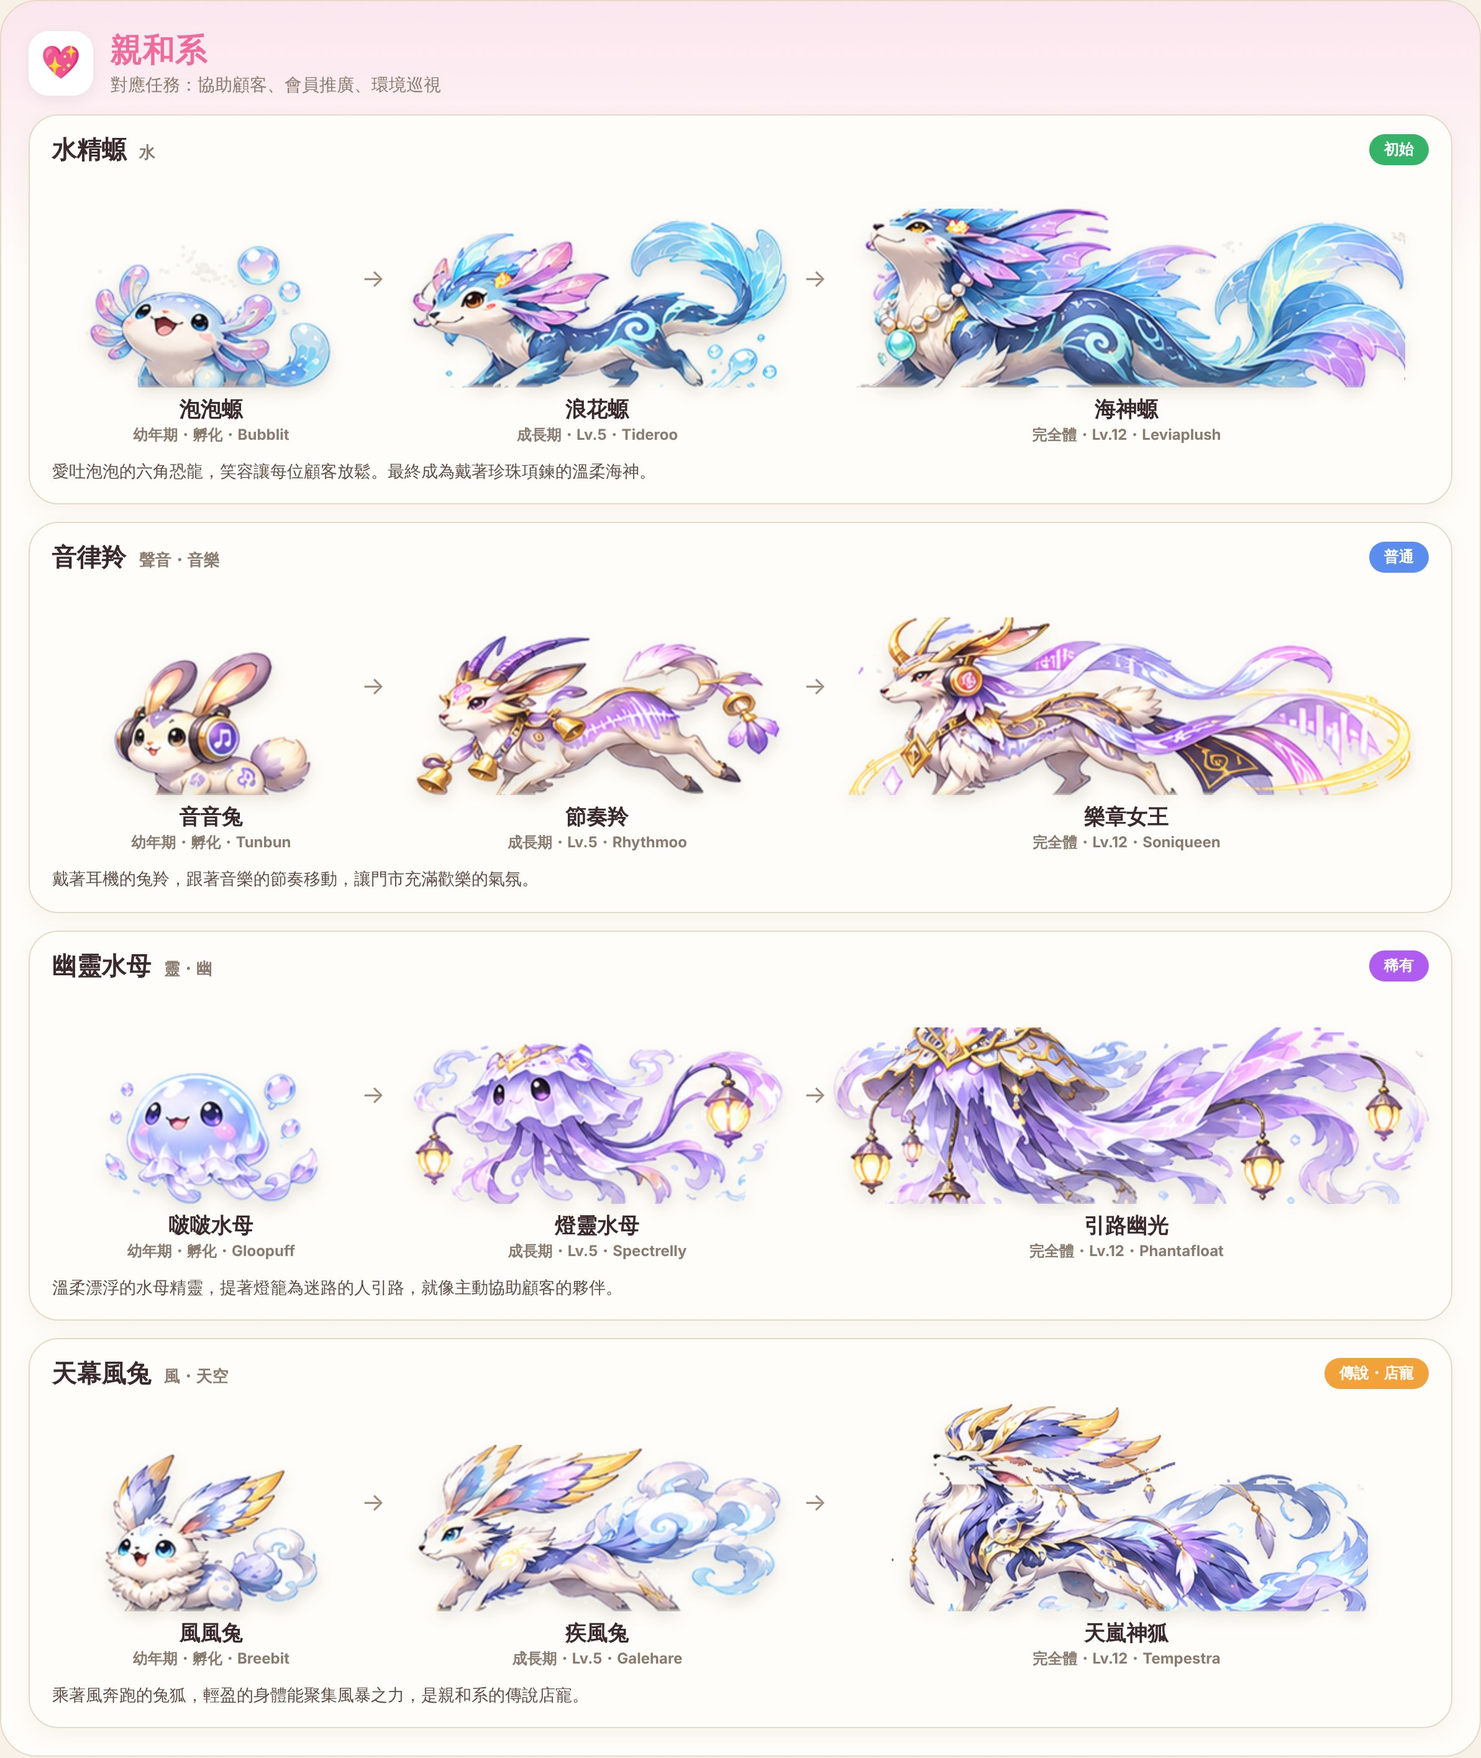
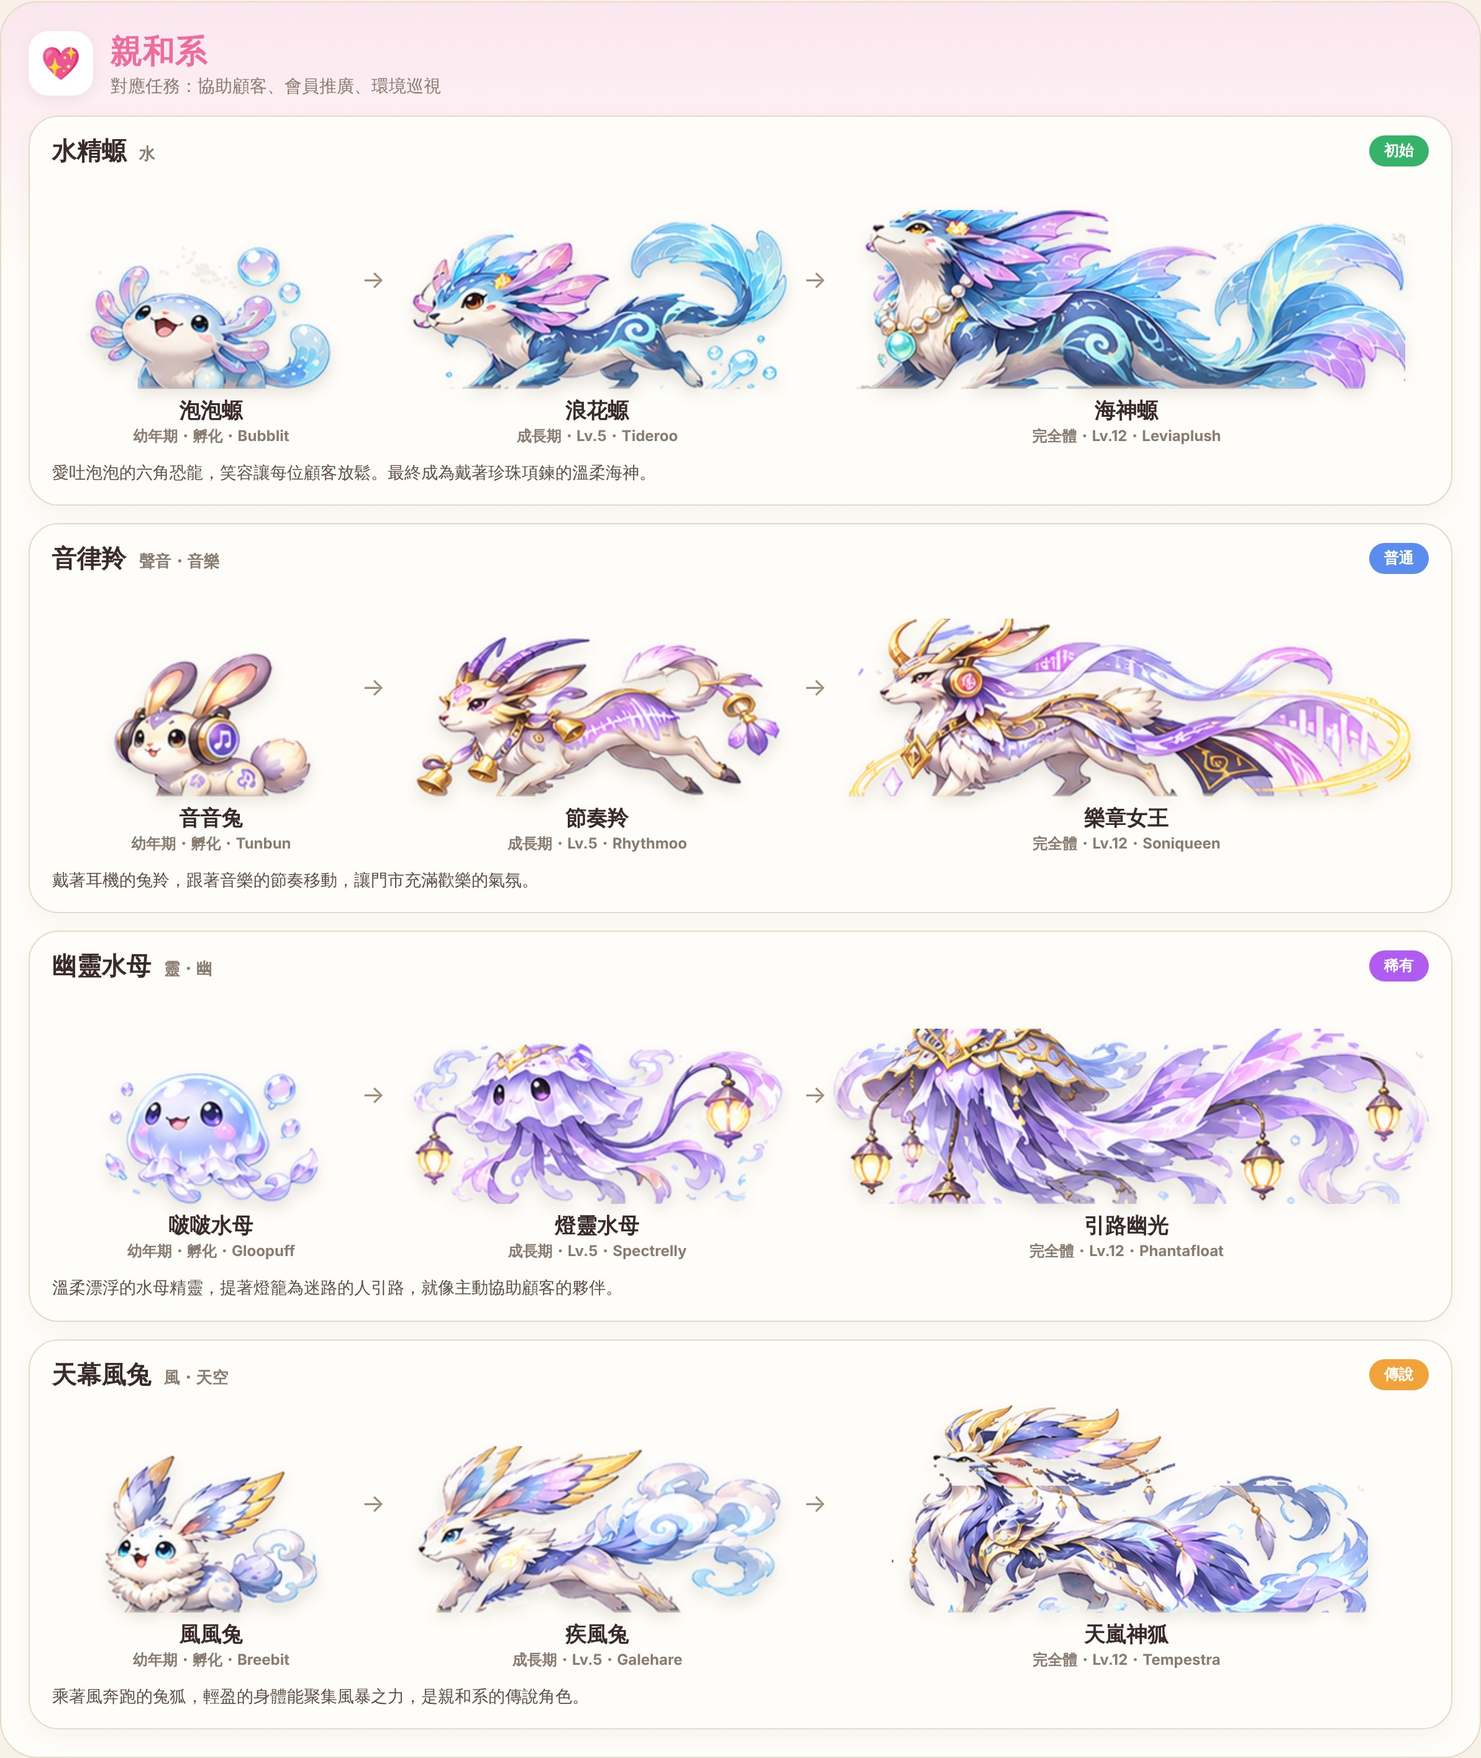
加入門市共養神獸「天穹龍帝・埃爾德拉」四階進化
- pet/art/source/store-dragon.png：店寵原畫
- pet/art/tools/extract_dragon.py：裁出四階段卡片圖並修掉原圖箭頭
- pet/art/creatures/sp-1~4-card.jpg：店寵四階段卡片
- roster.js：新增 STORE_PET；原本 5 隻店寵限定傳說角色改為個人可收集
- 設定集與 README 更新

Claude-Session: https://claude.ai/code/session_01Ja88QMoJazWmN43kTXZ8Lq

diff --git a/pet/art/roster.js b/pet/art/roster.js
@@ -14,7 +14,7 @@ const FAMILIES = {
   kind:    { name: '親和系', icon: '💖', color: '#F06A9B', desc: '協助顧客、會員推廣、環境巡視' },
   wise:    { name: '智慧系', icon: '📘', color: '#8C6CF0', desc: '每日一題、閱讀公告' },
 };
-const RARITY = { starter: { name: '初始', color: '#36B368' }, common: { name: '普通', color: '#5B8DEF' }, rare: { name: '稀有', color: '#B05CF0' }, legend: { name: '傳說・店寵', color: '#F2A23B' } };
+const RARITY = { starter: { name: '初始', color: '#36B368' }, common: { name: '普通', color: '#5B8DEF' }, rare: { name: '稀有', color: '#B05CF0' }, legend: { name: '傳說', color: '#F2A23B' }, divine: { name: '神獸・店寵', color: '#C9A227' } };
 
 const SPECIES = [
   /* 守護系 */
@@ -29,7 +29,7 @@ const SPECIES = [
     concept: '在夜裡無聲巡邏的影子貓，額頭有月牙印記。閉店後守著門市，最終化為披著月蝕鬃毛的獅子。' },
   { id: 'g4', fam: 'guard', rare: 'legend', src: 's4r1', family: '沙丘鼴獅', element: '大地・沙',
     names: ['沙沙鼴', '掘吼獅', '沙丘巨像'], en: ['Dustrit', 'Burroar', 'Dunecoloss'],
-    concept: '結合鼴鼠的挖掘本領與獅子的威嚴，最終背負古老遺跡，成為守護整座牧場的沙丘巨像。' },
+    concept: '結合鼴鼠的挖掘本領與獅子的威嚴，最終背負古老遺跡，成為守護邊境的沙丘巨像。' },
   /* 機械系 */
   { id: 'm1', fam: 'mech', rare: 'starter', src: 's4r5', family: '發明家浣熊', element: '機械・科技',
     names: ['小工浣熊', '機關浣熊', '機甲俠盜'], en: ['Scrappit', 'Gadgetit', 'Mechabandit'],
@@ -42,7 +42,7 @@ const SPECIES = [
     concept: '靠靜電充飽活力的小貂，掌管全店機台的電力，最終成為呼風喚雷的雷霆獸。' },
   { id: 'm4', fam: 'mech', rare: 'legend', src: 's3r1', family: '火山角羊蜥', element: '火・熔岩',
     names: ['焰焰羊', '熔岩角羊', '熔核巨角'], en: ['Emberaa', 'Vulkram', 'Magmashorn'],
-    concept: '體內流著熔岩的角羊蜥，熱力永不熄滅，是機械系的傳說店寵。' },
+    concept: '體內流著熔岩的角羊蜥，熱力永不熄滅，是機械系的傳說角色。' },
   /* 豐收系 */
   { id: 'h1', fam: 'harvest', rare: 'starter', src: 's3r5', family: '花開羊駝', element: '自然・花',
     names: ['花花羊駝', '玫瑰羊駝', '花冠女王'], en: ['Petali', 'Roselamb', 'Bloompress'],
@@ -55,7 +55,7 @@ const SPECIES = [
     concept: '能讓空氣結晶成冰的海豹狼，負責把庫存保持在最新鮮的狀態，最終背負極光。' },
   { id: 'h4', fam: 'harvest', rare: 'legend', src: 's1r1', family: '森靈貓', element: '草・自然',
     names: ['苔苔貓', '荊棘貓', '森林之王'], en: ['Mosskit', 'Thornpounce', 'Verdant Rex'],
-    concept: '與森林一起長大的貓狐，身上纏繞著活生生的植物，是豐收系的傳說店寵。' },
+    concept: '與森林一起長大的貓狐，身上纏繞著活生生的植物，是豐收系的傳說角色。' },
   /* 親和系 */
   { id: 'k1', fam: 'kind', rare: 'starter', src: 's1r3', family: '水精螈', element: '水',
     names: ['泡泡螈', '浪花螈', '海神螈'], en: ['Bubblit', 'Tideroo', 'Leviaplush'],
@@ -68,7 +68,7 @@ const SPECIES = [
     concept: '溫柔漂浮的水母精靈，提著燈籠為迷路的人引路，就像主動協助顧客的夥伴。' },
   { id: 'k4', fam: 'kind', rare: 'legend', src: 's2r1', family: '天幕風兔', element: '風・天空',
     names: ['風風兔', '疾風兔', '天嵐神狐'], en: ['Breebit', 'Galehare', 'Tempestra'],
-    concept: '乘著風奔跑的兔狐，輕盈的身體能聚集風暴之力，是親和系的傳說店寵。' },
+    concept: '乘著風奔跑的兔狐，輕盈的身體能聚集風暴之力，是親和系的傳說角色。' },
   /* 智慧系 */
   { id: 'w1', fam: 'wise', rare: 'starter', src: 's3r3', family: '靈視鴞貓', element: '超能・靈',
     names: ['咕咕鴞貓', '心靈鴞', '先知神鴞'], en: ['Hootle', 'Mindowl', 'Oracleon'],
@@ -81,12 +81,20 @@ const SPECIES = [
     concept: '聰明又愛玩的小虎鯨，最終成為駕馭風暴的鯨王。' },
   { id: 'w4', fam: 'wise', rare: 'legend', src: 's2r3', family: '光輝靈鹿', element: '光・星辰',
     names: ['光光鹿', '日輝鹿', '星角聖鹿'], en: ['Lumini', 'Solara', 'Astrahorn'],
-    concept: '鹿角能引導陽光與星辰祝福的靈鹿，是智慧系的傳說店寵。' },
+    concept: '鹿角能引導陽光與星辰祝福的靈鹿，是智慧系的傳說角色。' },
 ];
+/* 門市共養寵物（店寵）：全店一起養的唯一神獸，四階進化。原畫：source/store-dragon.png */
+const STORE_PET = {
+  id: 'sp', rare: 'divine', family: '天穹龍', element: '天穹・星光',
+  names: ['星龍幼體', '天輝龍', '穹光龍皇', '天穹龍帝・埃爾德拉'], en: ['Starling', 'Celestine', 'Vaultlight', 'Eldra, Emperor of the Heavenly Void'],
+  unlock: ['全店完成 10 個任務孵化', '店寵 Lv.5', '店寵 Lv.12', '店寵 Lv.20 完全進化'],
+  concept: '傳說中守護天空神殿的龍。每家門市只有一隻，由全店夥伴一起完成任務、餵食、陪伴養大。從白金色的幼龍，一路長成展開紫晶雙翼的天穹龍帝。',
+  card: n => `${BASE}creatures/sp-${n}-card.jpg`,
+};
 const BY_ID = Object.fromEntries(SPECIES.map(s => [s.id, s]));
 let BASE = (root.ROSTER_BASE !== undefined) ? root.ROSTER_BASE : '';
 const img = (id, stage) => `${BASE}creatures/${id}-${stage}.png`;
 const tag = (id, stage, o = {}) => { const s = BY_ID[id]; return `<img src="${img(id, stage)}" alt="${s ? s.names[stage - 1] : ''}" class="${o.cls || 'roster-img'}" loading="lazy" draggable="false">`; };
 const svgImage = (id, stage, x, y, w, h) => `<image href="${img(id, stage)}" x="${x}" y="${y}" width="${w}" height="${h || w}" preserveAspectRatio="xMidYMax meet"/>`;
-root.Roster = { FAMILIES, RARITY, SPECIES, byId: id => BY_ID[id], img, tag, svgImage, setBase: b => { BASE = b; } };
+root.Roster = { FAMILIES, RARITY, SPECIES, STORE_PET, byId: id => BY_ID[id], img, tag, svgImage, setBase: b => { BASE = b; } };
 })(typeof window !== 'undefined' ? window : globalThis);

diff --git a/pet/art/gallery.html b/pet/art/gallery.html
@@ -42,6 +42,17 @@ header p{color:var(--sub);margin:10px 0 0}
 table{width:100%;border-collapse:collapse;background:#FFFDF9;border-radius:20px;overflow:hidden;border:1px solid var(--line);font-size:14px}
 th,td{padding:11px 14px;text-align:left;border-bottom:1px solid var(--line);vertical-align:top;line-height:1.55}
 th{background:#F1E6D6;font-size:13px}
+.store{margin-top:30px;padding:24px;border-radius:30px;background:linear-gradient(160deg,#1E1B44,#3B2D6E 55%,#5A3F86);color:#fff;box-shadow:0 14px 40px rgba(40,20,80,.25)}
+.store-hd h2{margin:8px 0 2px;font-size:30px;color:#FFE7A6;letter-spacing:2px}
+.store-hd p{margin:0;color:#CFC4F0;font-size:14px}
+.store-hd .badge{margin:0}
+.store-row{display:grid;grid-template-columns:.8fr 1fr 1.1fr 1.35fr;gap:12px;margin-top:16px;align-items:end}
+.sc{text-align:center}
+.sc .ph{border-radius:18px;overflow:hidden;border:2px solid rgba(255,220,140,.55);box-shadow:0 8px 20px rgba(0,0,0,.3);line-height:0}
+.sc img{width:100%;display:block}
+.sc b{display:block;margin-top:8px;font-size:15px;color:#FFE7A6}
+.sc small{display:block;color:#CFC4F0;font-size:12px;margin-top:2px}
+.sp-desc{margin:16px 0 0;color:#E6DEFF;font-size:14px;line-height:1.7}
 .credit{margin-top:30px;text-align:center;color:var(--sub);font-size:12px}
 @media(max-width:760px){.stages{grid-template-columns:1fr}.st:not(:last-child):after{content:"↓";right:50%;top:auto;bottom:-14px}.final{grid-template-columns:repeat(2,1fr)}}
 </style>
@@ -53,7 +64,11 @@ th{background:#F1E6D6;font-size:13px}
 const R = window.Roster;
 const FBG = {guard:'#E6EEFB',mech:'#FBEBDD',harvest:'#E3F3E6',kind:'#FBE6EE',wise:'#ECE6FA'};
 const STAGE = ['幼年期・孵化','成長期・Lv.5','完全體・Lv.12'];
-let h = `<header><h1>糰糰夥伴 角色設定集</h1><p>20 個家族・5 系 × 4 種・每種 3 階段進化（共 60 個型態）</p></header>`;
+const SP = R.STORE_PET;
+let h = `<header><h1>糰糰夥伴 角色設定集</h1><p>門市共養神獸 1 隻（四階進化）＋ 個人夥伴 20 個家族（5 系 × 4 種・三階進化）</p></header>
+<section class="store" id="store-pet"><div class="store-hd"><span class="badge" style="background:${R.RARITY.divine.color}">${R.RARITY.divine.name}</span><h2>${SP.names[3]}</h2><p>${SP.en[3]}</p></div>
+<div class="store-row">${[1,2,3,4].map(n => `<div class="sc"><div class="ph"><img src="${SP.card(n)}" alt="${SP.names[n-1]}"></div><b>第 ${n} 階・${SP.names[n-1]}</b><small>${SP.unlock[n-1]}</small></div>`).join('')}</div>
+<p class="sp-desc">${SP.concept}</p></section>`;
 for (const [fid, f] of Object.entries(R.FAMILIES)) {
   h += `<section class="fam" id="fam-${fid}" style="--fc:${f.color};--fbg:${FBG[fid]}"><div class="fam-hd"><div class="ic">${f.icon}</div><div><h2>${f.name}</h2><p>對應任務：${f.desc}</p></div></div>`;
   for (const sp of R.SPECIES.filter(x => x.fam === fid)) {
@@ -72,10 +87,11 @@ h += `<section class="sec" id="plan"><h2>放進遊戲的規劃</h2><p class="lea
 <tr><td><b>第一隻夥伴</b></td><td>新夥伴從 5 隻初始角色選 1 隻：鉚釘龜／小工浣熊／花花羊駝／泡泡螈／咕咕鴞貓。</td></tr>
 <tr><td><b>之後的蛋</b></td><td>寵物畢業後，可從培育過的系別選普通蛋。連續達成 14 天 → 稀有蛋。夾娃娃機有小機率夾到稀有蛋。每週團隊挑戰 → 蛋券。</td></tr>
 <tr><td><b>進化條件</b></td><td>成長期：Lv.5。完全體：Lv.12，且自己系別的任務屬性要佔 30% 以上。條件不足時，提示「再多做 XX 任務就能進化」。</td></tr>
-<tr><td><b>店寵（傳說）</b></td><td>門市共養寵物孵化時，依全店最常做的任務系別，孵出該系的傳說角色：沙丘鼴獅／火山角羊蜥／森靈貓／天幕風兔／光輝靈鹿。</td></tr>
-<tr><td><b>圖鑑規模</b></td><td>個人 15 個家族 × 3 階段 = 45 個型態，加上店寵 5 × 3 = 15 個型態。</td></tr>
+<tr><td><b>店寵（神獸）</b></td><td>每家門市一隻<b>天穹龍</b>，全店一起養。全店完成 10 個任務孵化 → Lv.5 天輝龍 → Lv.12 穹光龍皇 → Lv.20 完全進化為天穹龍帝・埃爾德拉。牧場也跟著龍的階段一起成長。</td></tr>
+<tr><td><b>傳說角色</b></td><td>沙丘鼴獅／火山角羊蜥／森靈貓／天幕風兔／光輝靈鹿，開放給個人收集。取得方式：同一系的初始、普通、稀有角色都培育到完全體後，解鎖該系傳說蛋。</td></tr>
+<tr><td><b>圖鑑規模</b></td><td>個人 20 個家族 × 3 階段 = 60 個型態，加上店寵 4 個階段。</td></tr>
 </table></section>
-<p class="credit">角色原畫：設定稿 Creature Roster Sheet 1–4（pet/art/source）。中文名稱與系別分配為遊戲用暫定，可再調整。</p>`;
+<p class="credit">角色原畫：Creature Roster Sheet 1–4、天穹龍帝宣傳圖（pet/art/source）。中文名稱與系別分配為遊戲用暫定，可再調整。</p>`;
 document.getElementById('root').innerHTML = h;
 </script>
 </body>

diff --git a/pet/art/tools/extract_dragon.py b/pet/art/tools/extract_dragon.py
@@ -1,0 +1,96 @@
+"""從「天穹龍帝・埃爾德拉」宣傳圖切出 4 個階段。
+
+輸出：creatures/sp-{n}-card.jpg  帶原畫背景的卡片版（遊戲正式使用）
+加 --cutout 會另外輸出實驗性的去背版 sp-{n}.png（第 3、4 階段品質不足，不建議使用）
+"""
+import os
+import numpy as np
+from PIL import Image, ImageFilter
+from extract_sprites import dilate, erode, grow, components
+
+HERE = os.path.dirname(os.path.abspath(__file__))
+SRC = os.path.join(HERE, '..', 'source', 'store-dragon.png')
+OUT = os.path.join(HERE, '..', 'creatures')
+
+# (裁切框, 種子框[相對], 亮度門檻)
+STAGES = [
+    ((30, 520, 232, 712), (60, 40, 150, 160), 168),
+    ((240, 430, 572, 712), (60, 60, 250, 260), 168),
+    ((532, 262, 1000, 702), (60, 60, 380, 400), 172),
+    ((690, 0, 1672, 800), (300, 100, 900, 700), 176),
+]
+CARDS = [(14, 470, 236, 728), (226, 400, 586, 728), (516, 220, 1000, 728), (790, 0, 1672, 728)]
+
+
+def extract(im, box, seed_box, thr):
+    a = np.asarray(im.crop(box)).astype(float)
+    r, g, b = a[..., 0], a[..., 1], a[..., 2]
+    L = r * .3 + g * .59 + b * .11
+    mx, mn = a.max(-1), a.min(-1)
+    sat = (mx - mn) / np.maximum(mx, 1)
+    bright = L > thr
+    gold = (r > 150) & (r > b + 45) & (g > 110) & (sat > .3)
+    gem = (b > 150) & (b > r + 40) & (L > 90)
+    lilac = (L > thr - 28) & (b > g + 8) & (r > g - 5)          # 半透明紫色翼膜
+    cand = bright | gold | gem | lilac
+    cand = erode(dilate(cand, 3), 3)
+    seed = np.zeros_like(cand)
+    x0, y0, x1, y1 = seed_box
+    seed[y0:y1, x0:x1] = True
+    core = dilate(erode(cand, 5), 5)
+    main = grow(core & seed & (L > thr + 20), core)
+    main = grow(main, cand)
+    # 補洞
+    h, w = main.shape
+    border = np.zeros_like(main); border[0, :] = border[-1, :] = border[:, 0] = border[:, -1] = True
+    outside = grow(border & ~main, ~main)
+    for ys, xs in components(~outside & ~main):
+        if len(ys) < 900:
+            main[ys, xs] = True
+    alpha = np.asarray(Image.fromarray((main * 255).astype(np.uint8)).filter(ImageFilter.GaussianBlur(1.2))).astype(float) / 255
+    ys, xs = np.where(alpha > .05)
+    t, bt, l, rt = max(ys.min() - 4, 0), min(ys.max() + 4, h), max(xs.min() - 4, 0), min(xs.max() + 4, w)
+    out = np.dstack([a, alpha * 255]).astype(np.uint8)[t:bt, l:rt]
+    return Image.fromarray(out, 'RGBA')
+
+
+# 原圖中階段之間的金色箭頭位置（修補掉，避免出現在卡片邊緣）
+ARROWS = [(200, 612, 266, 688), (512, 572, 586, 648), (884, 612, 956, 692)]
+
+
+def remove_arrows(im):
+    a = np.asarray(im).astype(float)
+    for x0, y0, x1, y1 in ARROWS:
+        reg = a[y0:y1, x0:x1]
+        r, g, b = reg[..., 0], reg[..., 1], reg[..., 2]
+        m = (r > 150) & (r > b + 40) & (g > 100)
+        m = dilate(m, 7)
+        fill = reg.copy()
+        for _ in range(60):  # 擴散修補：反覆模糊，只覆蓋箭頭像素
+            blur = np.asarray(Image.fromarray(fill.astype(np.uint8)).filter(ImageFilter.GaussianBlur(3))).astype(float)
+            fill[m] = blur[m]
+        a[y0:y1, x0:x1] = fill
+    return Image.fromarray(a.astype(np.uint8))
+
+
+def card(im, box):
+    c = im.crop(box).convert('RGB')
+    w, h = c.size
+    s = 640 / max(w, h)
+    return c.resize((round(w * s), round(h * s)), Image.LANCZOS) if s < 1 else c
+
+
+def main():
+    im = Image.open(SRC).convert('RGB')
+    clean = remove_arrows(im)
+    # 去背版只在 --cutout 時輸出：第 3、4 階段翅膀和紫色雲層混在一起，自動去背品質不足
+    import sys
+    for i, (box, seed, thr) in enumerate(STAGES):
+        if '--cutout' in sys.argv:
+            extract(im, box, seed, thr).save(os.path.join(OUT, f'sp-{i + 1}.png'))
+        card(clean, CARDS[i]).save(os.path.join(OUT, f'sp-{i + 1}-card.jpg'), quality=88)
+    print('ok')
+
+
+if __name__ == '__main__':
+    main()

diff --git a/pet/art/README.md b/pet/art/README.md
@@ -1,6 +1,20 @@
 # 糰糰夥伴 美術資源
 
-## 角色（正式版）
+## 門市共養神獸（店寵）：天穹龍帝・埃爾德拉
+
+原畫：`source/store-dragon.png`。每家門市一隻，四階進化：
+
+| 階段 | 名稱 | 條件 | 圖檔 |
+|---|---|---|---|
+| 1 | 星龍幼體 | 全店完成 10 個任務孵化 | `creatures/sp-1-card.jpg` |
+| 2 | 天輝龍 | 店寵 Lv.5 | `creatures/sp-2-card.jpg` |
+| 3 | 穹光龍皇 | 店寵 Lv.12 | `creatures/sp-3-card.jpg` |
+| 4 | 天穹龍帝・埃爾德拉 | 店寵 Lv.20 完全進化 | `creatures/sp-4-card.jpg` |
+
+- **用的是卡片版（保留原畫背景）。** 原畫背景是紫色雲層和光效，和龍的紫色翅膀顏色太接近，自動去背切不乾淨。卡片圖用 `tools/extract_dragon.py` 產生，也已經修掉原圖裡的箭頭。
+- **要放進牧場場景，需要去背版。** 請提供同一隻龍在**純色背景**的四張圖（或一張純色背景的四階排列）。
+
+## 個人夥伴角色
 
 角色原畫來自 `source/sheet1.png` ~ `sheet4.png`（Creature Roster Sheet 1–4），共 20 個家族 × 3 階段 = 60 個型態。
 
@@ -16,7 +30,7 @@
 
 ### 系別分配（暫定，可再調整）
 
-| 系別 | 初始 | 普通 | 稀有 | 傳說（店寵限定） |
+| 系別 | 初始 | 普通 | 稀有 | 傳說 |
 |---|---|---|---|---|
 | 🛡 守護 | 鋼殼龜：鉚釘龜 → 鐵背龜 → 神盾要塞龜 | 石英甲蟲：小石犀 → 岩角犀 → 巨晶要塞犀 | 影月貓：夜夜喵 → 影爪豹 → 蝕月獅 | 沙丘鼴獅：沙沙鼴 → 掘吼獅 → 沙丘巨像 |
 | ⚙ 機械 | 發明家浣熊：小工浣熊 → 機關浣熊 → 機甲俠盜 | 焰鱗穿山甲：火星鱗 → 焰爪鱗 → 煉獄鱗王 | 雷暴猞猁：電電貂 → 閃光猞猁 → 雷霆獸 | 火山角羊蜥：焰焰羊 → 熔岩角羊 → 熔核巨角 |
@@ -31,7 +45,8 @@
 | 第一隻 | 從 5 隻初始角色中選 1 隻。 |
 | 之後的蛋 | 畢業後選蛋；連續 14 天 → 稀有蛋；夾娃娃機小機率夾到稀有蛋；每週團隊挑戰 → 蛋券。 |
 | 進化 | Lv.5 進成長期。Lv.12 而且自己系別任務佔 30% 以上，才進化成完全體。 |
-| 店寵 | 依全店最常做的任務系別，孵出該系的傳說角色。 |
+| 傳說角色 | 同一系的初始、普通、稀有角色都培育到完全體後，解鎖該系傳說蛋。 |
+| 店寵 | 固定為天穹龍（見上方），全店一起養。 |
 
 ### 換掉或新增角色
 
